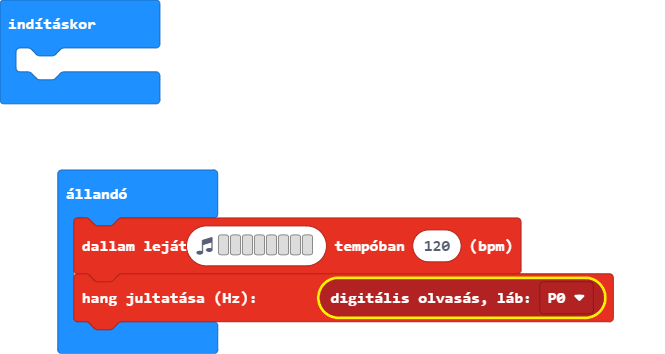
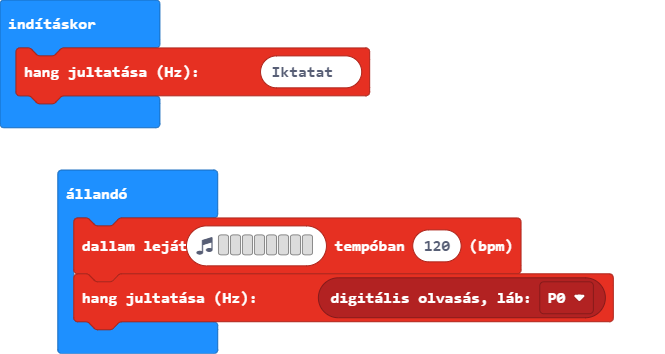
Update main.blocks, main.ts

diff --git a/main.ts b/main.ts
@@ -1,3 +1,4 @@
+music.ringTone(494)
 basic.forever(function () {
     music.playMelody("- - - - - - - - ", 120)
     music.ringTone(pins.digitalReadPin(DigitalPin.P0))
